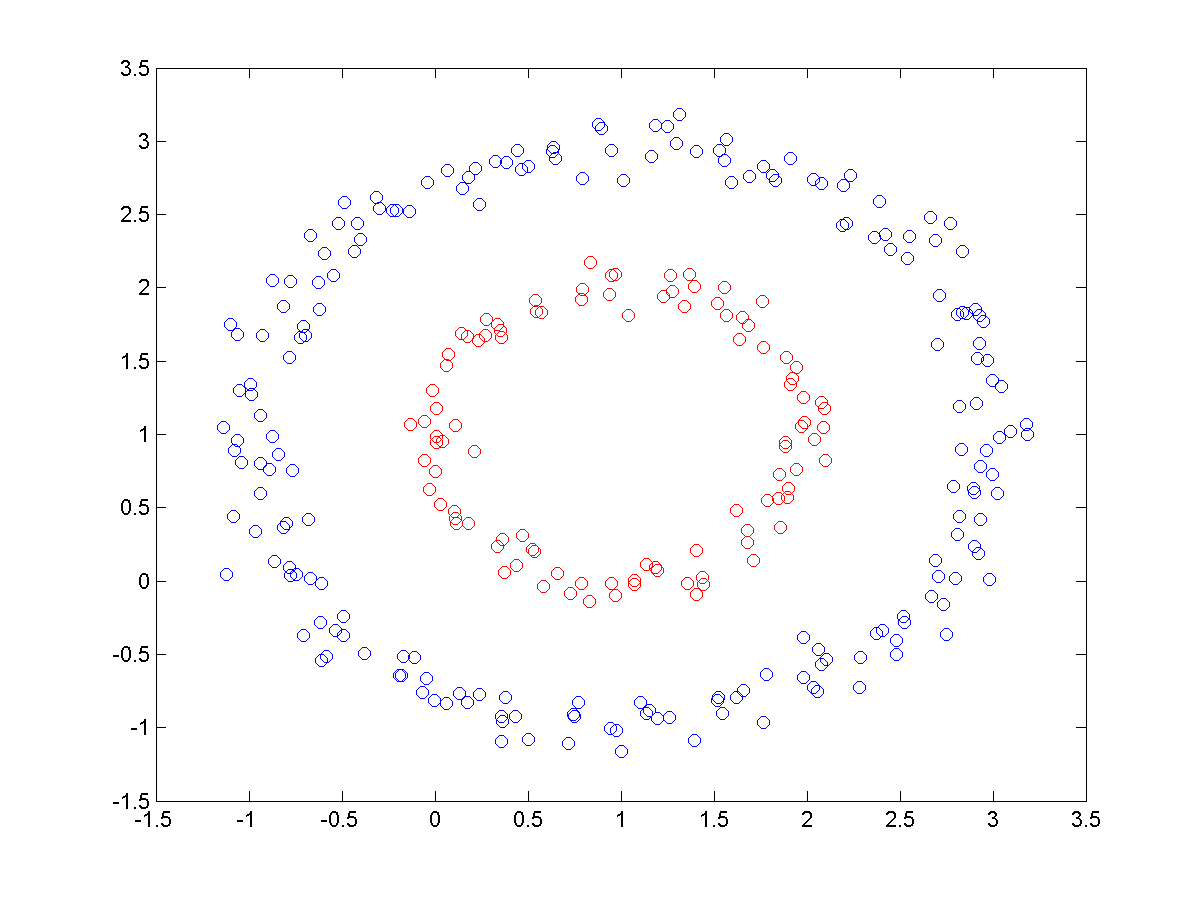
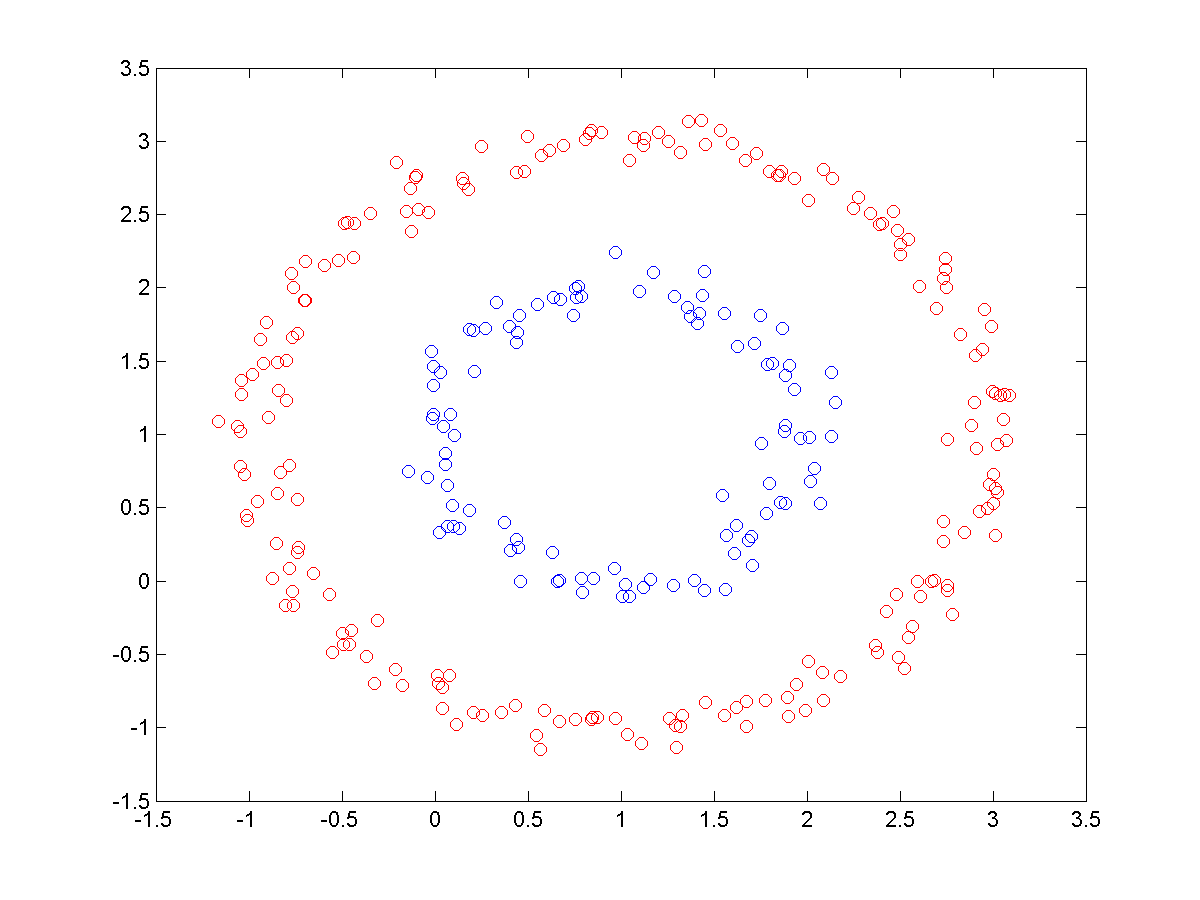
isolate data generation and algorithm

diff --git a/spectral-clustering/code/gen_data.m b/spectral-clustering/code/gen_data.m
@@ -1,0 +1,22 @@
+%generate 2 circles data set. 
+
+clear ;
+close all ;
+
+figure ; 
+
+N = 100 ;
+K = 2 ;
+
+theta = linspace(0, 2 * pi, N) ;
+C1X1 = 1 + cos(theta) + 0.1 * randn(1, N) ;
+C1X2 = 1 + sin(theta) + 0.1 * randn(1, N) ;
+scatter(C1X1, C1X2) ; hold on ;
+theta = linspace(0, 2 * pi, 2*N) ;
+C2X1 = 1 + 2 * cos(theta) + 0.1 * randn(1, 2*N) ;
+C2X2 = 1 + 2 * sin(theta) + 0.1 * randn(1, 2*N) ;
+scatter(C2X1, C2X2) ;
+X = [C1X1', C1X2' ; C2X1', C2X2'] ;
+print(gcf, '-dpng', '../plot/sc_sample_scatter.png') ;
+
+save('data.mat') ;

diff --git a/spectral-clustering/code/sample.m b/spectral-clustering/code/sample.m
@@ -3,21 +3,7 @@
 clear ;
 close all ;
 
-figure ; 
-
-N = 100 ;
-K = 2 ;
-
-theta = linspace(0, 2 * pi, N) ;
-C1X1 = 1 + cos(theta) + 0.1 * randn(1, N) ;
-C1X2 = 1 + sin(theta) + 0.1 * randn(1, N) ;
-scatter(C1X1, C1X2) ; hold on ;
-theta = linspace(0, 2 * pi, 2*N) ;
-C2X1 = 1 + 2 * cos(theta) + 0.1 * randn(1, 2*N) ;
-C2X2 = 1 + 2 * sin(theta) + 0.1 * randn(1, 2*N) ;
-scatter(C2X1, C2X2) ;
-X = [C1X1', C1X2' ; C2X1', C2X2'] ;
-print(gcf, '-dpng', '../plot/sc_sample_scatter.png') ;
+load('data.mat') ;
 
 figure ;
 
